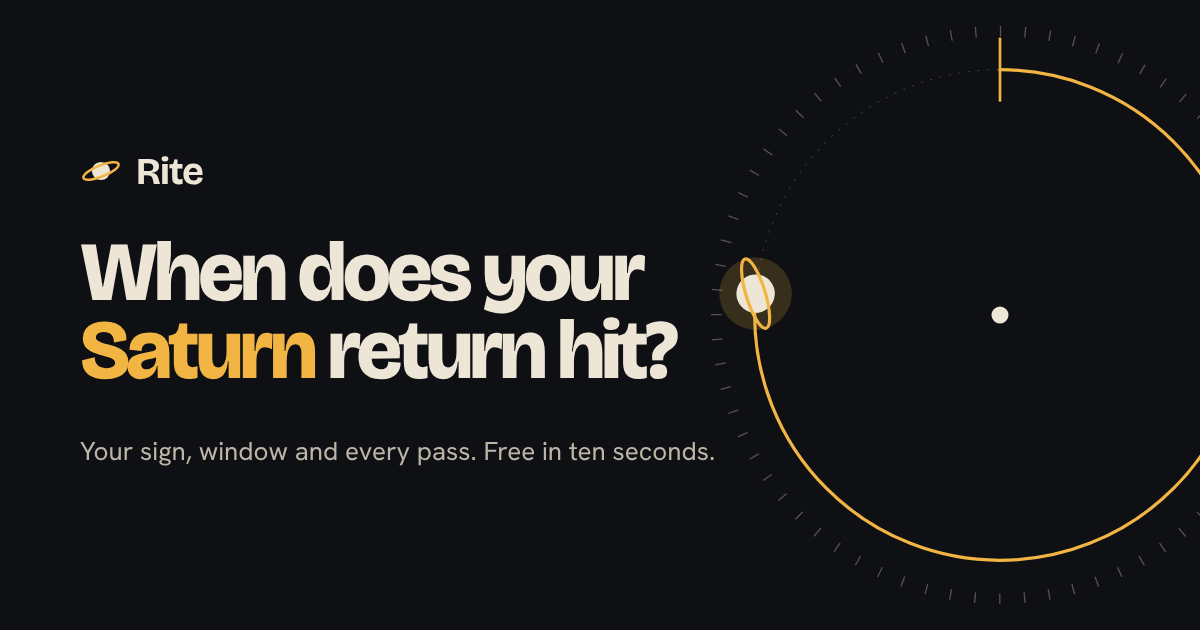
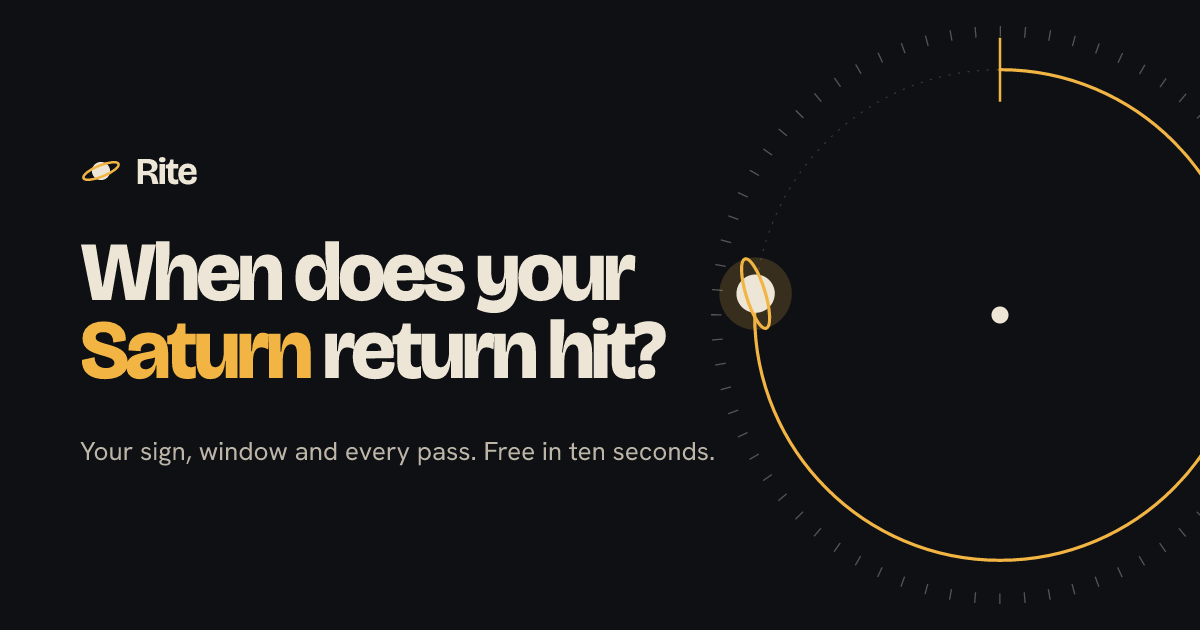
Per-sign link previews: scripts/gen-og.ts renders public/og/<sign>.png and og.png
1200x630, same dial as ogSvg; headline "Saturn return in <Sign>" with the current or next
stretch years from sign-periods.json. og.png regenerated from ogSvg() with the bundled fonts.
Sign pages point og:image at their own PNG.

Claude-Session: https://claude.ai/code/session_01LKbWuxFFEknZknaBnx8oZZ

Changed region(s): [[0.0925, 0.3921, 0.5858, 0.6032], [0.1233, 0.2413, 0.185, 0.3016]]

diff --git a/scripts/gen-og.ts b/scripts/gen-og.ts
@@ -1,0 +1,33 @@
+// Renders the link-preview PNGs into public/: og.png (from ogSvg) and og/<sign>.png per sign
+// (from signOgSvg, with the current or next stretch of Saturn in that sign as of today).
+// Run with: bun scripts/gen-og.ts   (re-run when a sign's stretch rolls over, roughly every 2–3 years)
+import { mkdirSync, writeFileSync } from "node:fs";
+import { fileURLToPath } from "node:url";
+import { Resvg } from "@resvg/resvg-js";
+import { ogSvg, signOgSvg, FONT_TEXT } from "../src/card";
+import SIGN_PERIODS from "../src/content/sign-periods.json";
+
+const root = new URL("../", import.meta.url);
+// the Node binding takes font paths (fontBuffers is wasm-only); system fonts off so nothing else can stand in
+const fontFiles = ["bricolage-700", "bricolage-800", "hanken-400", "hanken-600"].map((f) => fileURLToPath(new URL(`src/fonts/${f}.bin`, root)));
+const png = (svg: string) => new Resvg(svg, { font: { fontFiles, loadSystemFonts: false, defaultFontFamily: FONT_TEXT } }).render().asPng();
+
+/** The stretch (main transit plus any dip within 18 months) Saturn is in now, else the next one. */
+export function stretch(periods: Array<{ from: string; to: string }>, today: string) {
+  const groups: Array<Array<{ from: string; to: string }>> = [];
+  for (const p of periods) { const g = groups[groups.length - 1]; if (g && Date.parse(p.from) - Date.parse(g[g.length - 1].to) < 548 * 86400000) g.push(p); else groups.push([p]); }
+  const cur = groups.find((g) => today >= g[0].from && today <= g[g.length - 1].to);
+  const g = cur ?? groups.find((x) => x[0].from > today) ?? groups[groups.length - 1];
+  return { from: g[0].from, to: g[g.length - 1].to, now: !!cur };
+}
+
+const today = new Date().toISOString().slice(0, 10);
+writeFileSync(new URL("public/og.png", root), png(ogSvg()));
+mkdirSync(new URL("public/og/", root), { recursive: true });
+for (const [sign, periods] of Object.entries(SIGN_PERIODS as Record<string, Array<{ from: string; to: string }>>)) {
+  const s = stretch(periods, today);
+  const years = `${s.from.slice(0, 4)}–${s.to.slice(0, 4)}`;
+  writeFileSync(new URL(`public/og/${sign.toLowerCase()}.png`, root), png(signOgSvg(sign, years, s.now)));
+  console.log(sign, years, s.now ? "(now)" : "(next)");
+}
+console.log("wrote public/og.png and", Object.keys(SIGN_PERIODS).length, "sign images");

diff --git a/src/views/sign.ts b/src/views/sign.ts
@@ -80,5 +80,5 @@ go.addEventListener('click',function(e){if(i.value){e.preventDefault();location.
 i.addEventListener('change',function(){clearTimeout(tm);if(!i.value)return;tm=setTimeout(function(){fetch('/api/calc?date='+i.value).then(function(r){return r.json()}).then(function(d){if(!d||!d.sign)return;a.style.display='';a.classList.remove('swap');void a.offsetWidth;a.classList.add('swap');
 if(d.sign===SIGN){a.style.color='#F2B544';a.textContent='Yes. Saturn was in '+SIGN+' when you were born, so this is your '+(d.returnNumber===1?'first':d.returnNumber===2?'second':'third')+' return.'}else{a.style.color='#EDE6D6';a.innerHTML='';a.append('Saturn was in '+d.sign+' on that date, so your return falls there. ');var l=document.createElement('a');l.href='/saturn-return/saturn-in/'+d.sign.toLowerCase();l.textContent='Saturn return in '+d.sign;a.append(l);a.append('.')}}).catch(function(){})},150)});
 })();`;
-  return shell({ title, description: desc, canonical: `${opts.siteUrl}/saturn-return/saturn-in/${s.toLowerCase()}`, og: `${opts.siteUrl}/og.png`, body, extraCss: CSS, script, nav: html`<nav class="main"><a href="/">Saturn return calculator</a></nav>` });
+  return shell({ title, description: desc, canonical: `${opts.siteUrl}/saturn-return/saturn-in/${s.toLowerCase()}`, og: `${opts.siteUrl}/og/${s.toLowerCase()}.png`, body, extraCss: CSS, script, nav: html`<nav class="main"><a href="/">Saturn return calculator</a></nav>` });
 }
